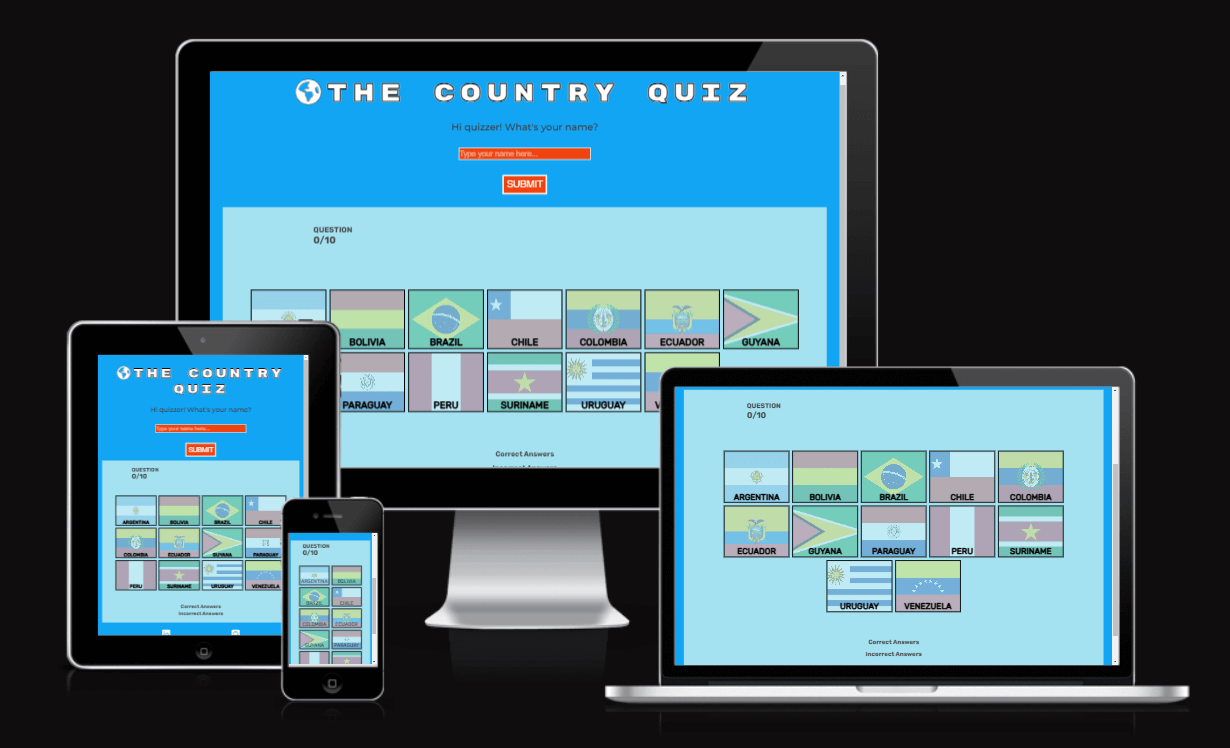
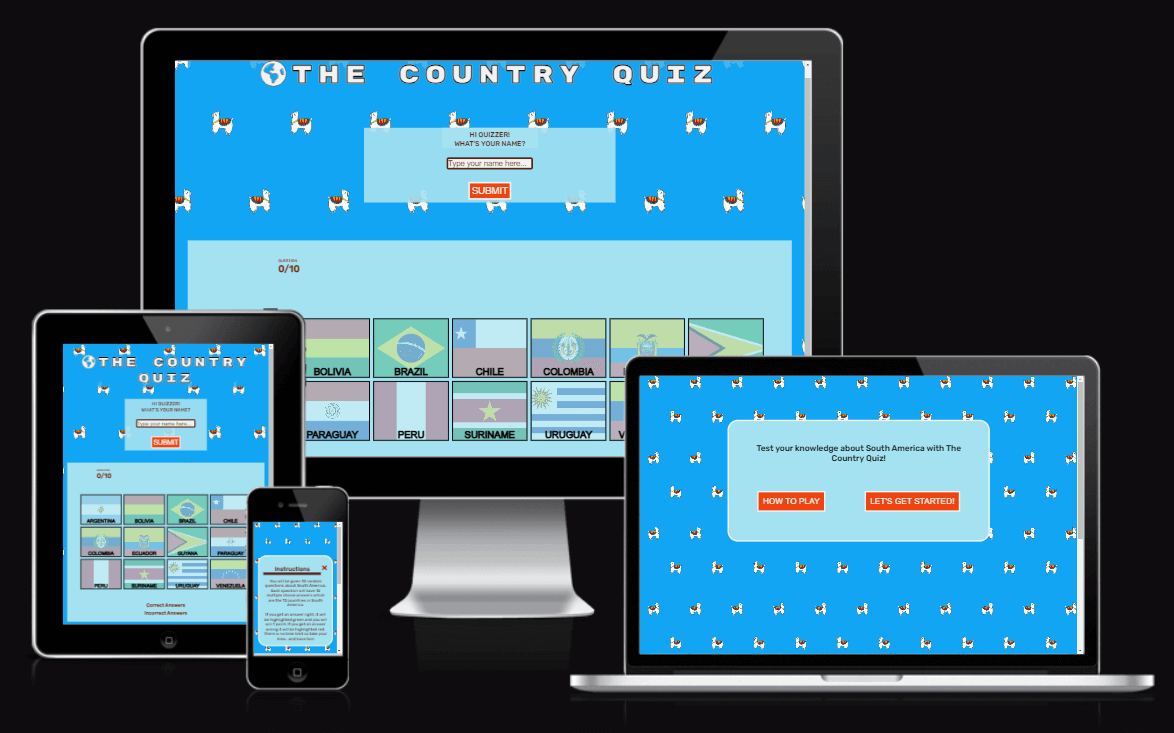
Replace responsiveness image

diff --git a/README.md b/README.md
@@ -123,10 +123,10 @@ The Country Quiz consists of one page, the [Main Game Page](index.html), and two
     This modal gives instructions to the user on how to play the quiz. When exiting this pop-up they will be taken back to the [Welcome Message Modal](<#welcome-message-modal>).
 
     How To Play Modal Desktop:
-    ![How To Play Modal Desktop](<#media/site-screenshots/howtoplay-modal.png>)
+    ![How To Play Modal Desktop](media/site-screenshots/howtoplay-modal.png)
 
     How To Play Modal Mobile:
-    ![How To Play Modal Mobile](<#media/site-screenshots/howtoplaymodal-mobile.png>)
+    ![How To Play Modal Mobile](media/site-screenshots/howtoplaymodal-mobile.png)
 
   - ### Main Game Page
     - #### Main Heading
@@ -310,6 +310,8 @@ The steps to clone a project from GitHub are as follows:
 ### Media
 
 The images are from [Pixabay](https://pixabay.com/) and [Flag Colour Codes](https://www.flagcolorcodes.com/).
+
+The llama graphic is from [Pixabay](https://pixabay.com/) and I created the background in [Canva](https://www.canva.com/).
 
 The flag images were made opaque with [OnlinePNGTools](https://onlinepngtools.com/change-png-opacity#:~:text=World's%20simplest%20online%20Portable%20Network,%2C%20quick%2C%20and%20very%20powerful.).
 
